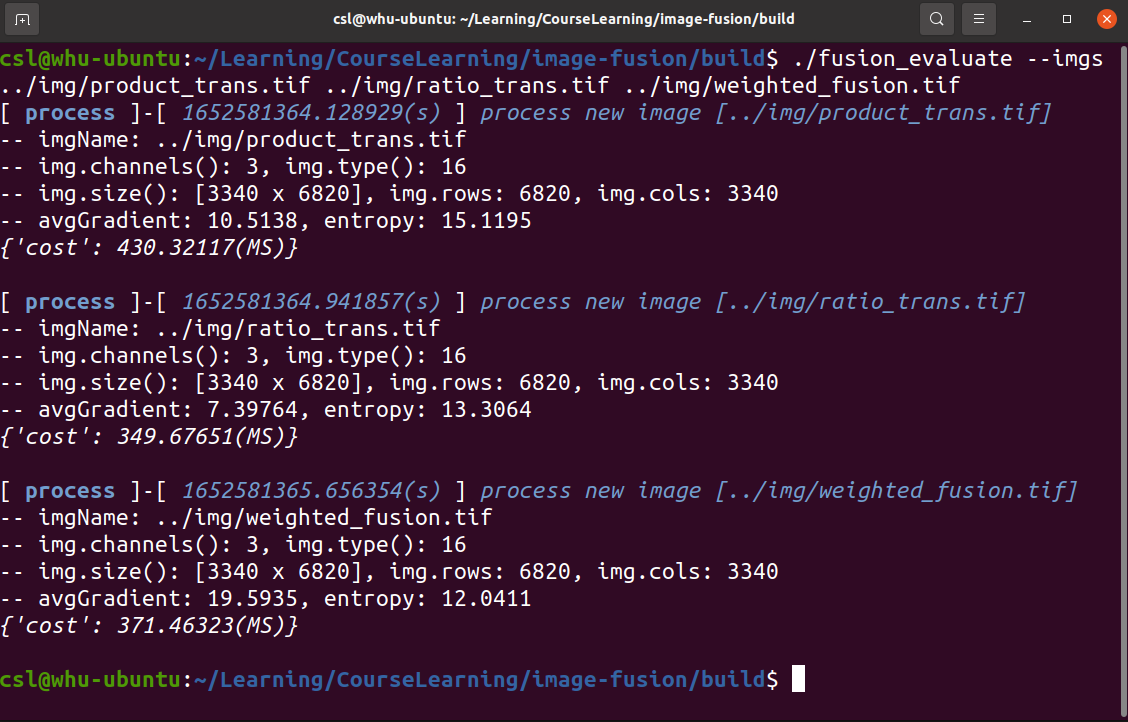
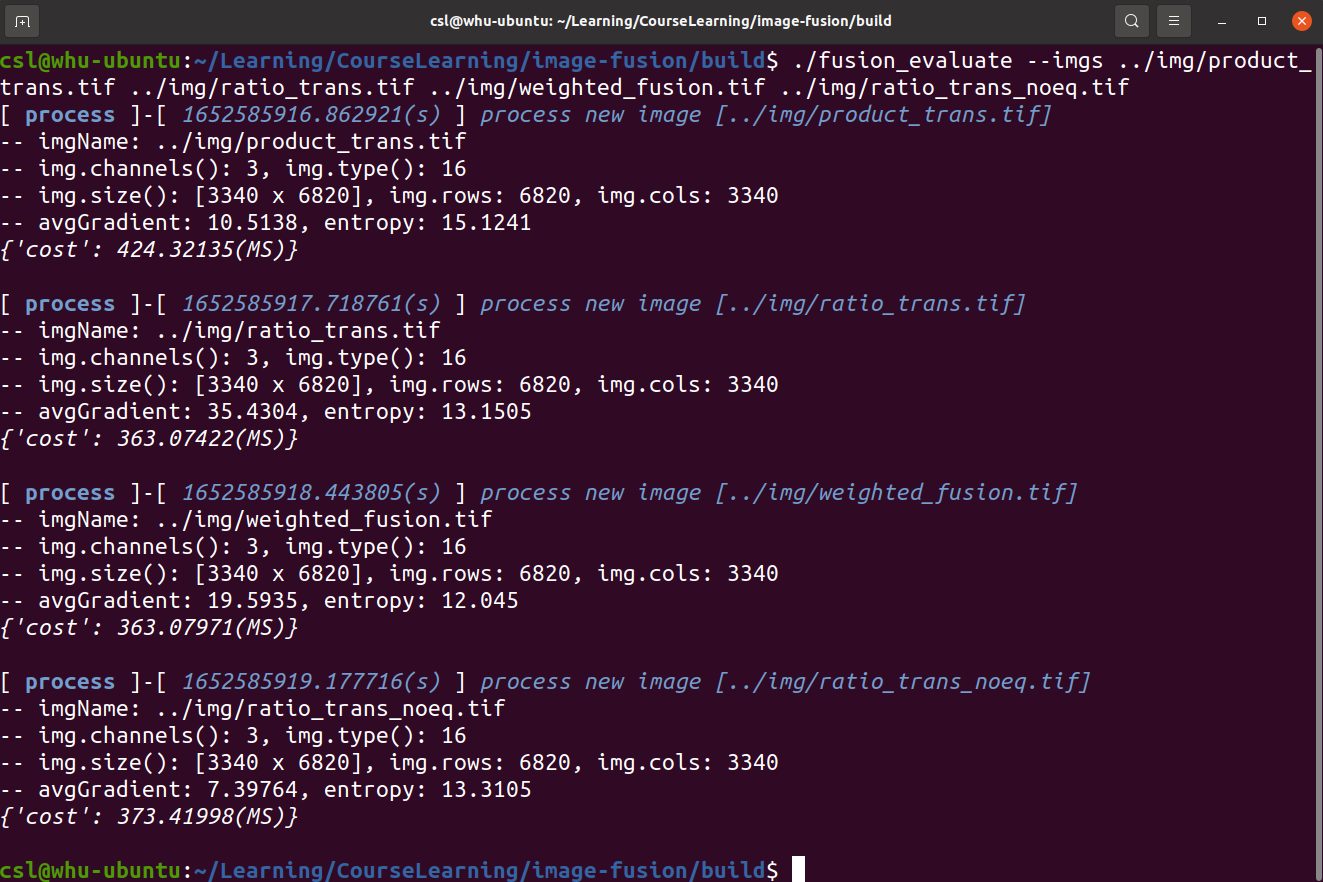
update

Changed region(s): [[0.0, 0.0, 1.0, 1.0], [0.6826, 0.3961, 0.8998, 0.4266], [0.6516, 0.2438, 0.6826, 0.2742]]

diff --git a/image-fusion/src/src/fusion.cpp b/image-fusion/src/src/fusion.cpp
@@ -203,9 +203,9 @@ namespace ns_fusion {
     CV_Assert(!img.empty() && img.channels() == 3);
     int rows = img.rows, cols = img.cols;
     std::vector<std::vector<std::vector<std::size_t>>>
-        bins(255, std::vector<std::vector<std::size_t>>(255, std::vector<std::size_t>(255, 0)));
-    for (int i = 0; i != rows - 1; ++i) {
-      for (int j = 0; j != cols - 1; ++j) {
+        bins(256, std::vector<std::vector<std::size_t>>(256, std::vector<std::size_t>(256, 0)));
+    for (int i = 0; i != rows; ++i) {
+      for (int j = 0; j != cols; ++j) {
         auto cp = img.at<cv::Vec3b>(i, j);
         ++bins[cp[0]][cp[1]][cp[2]];
       }
